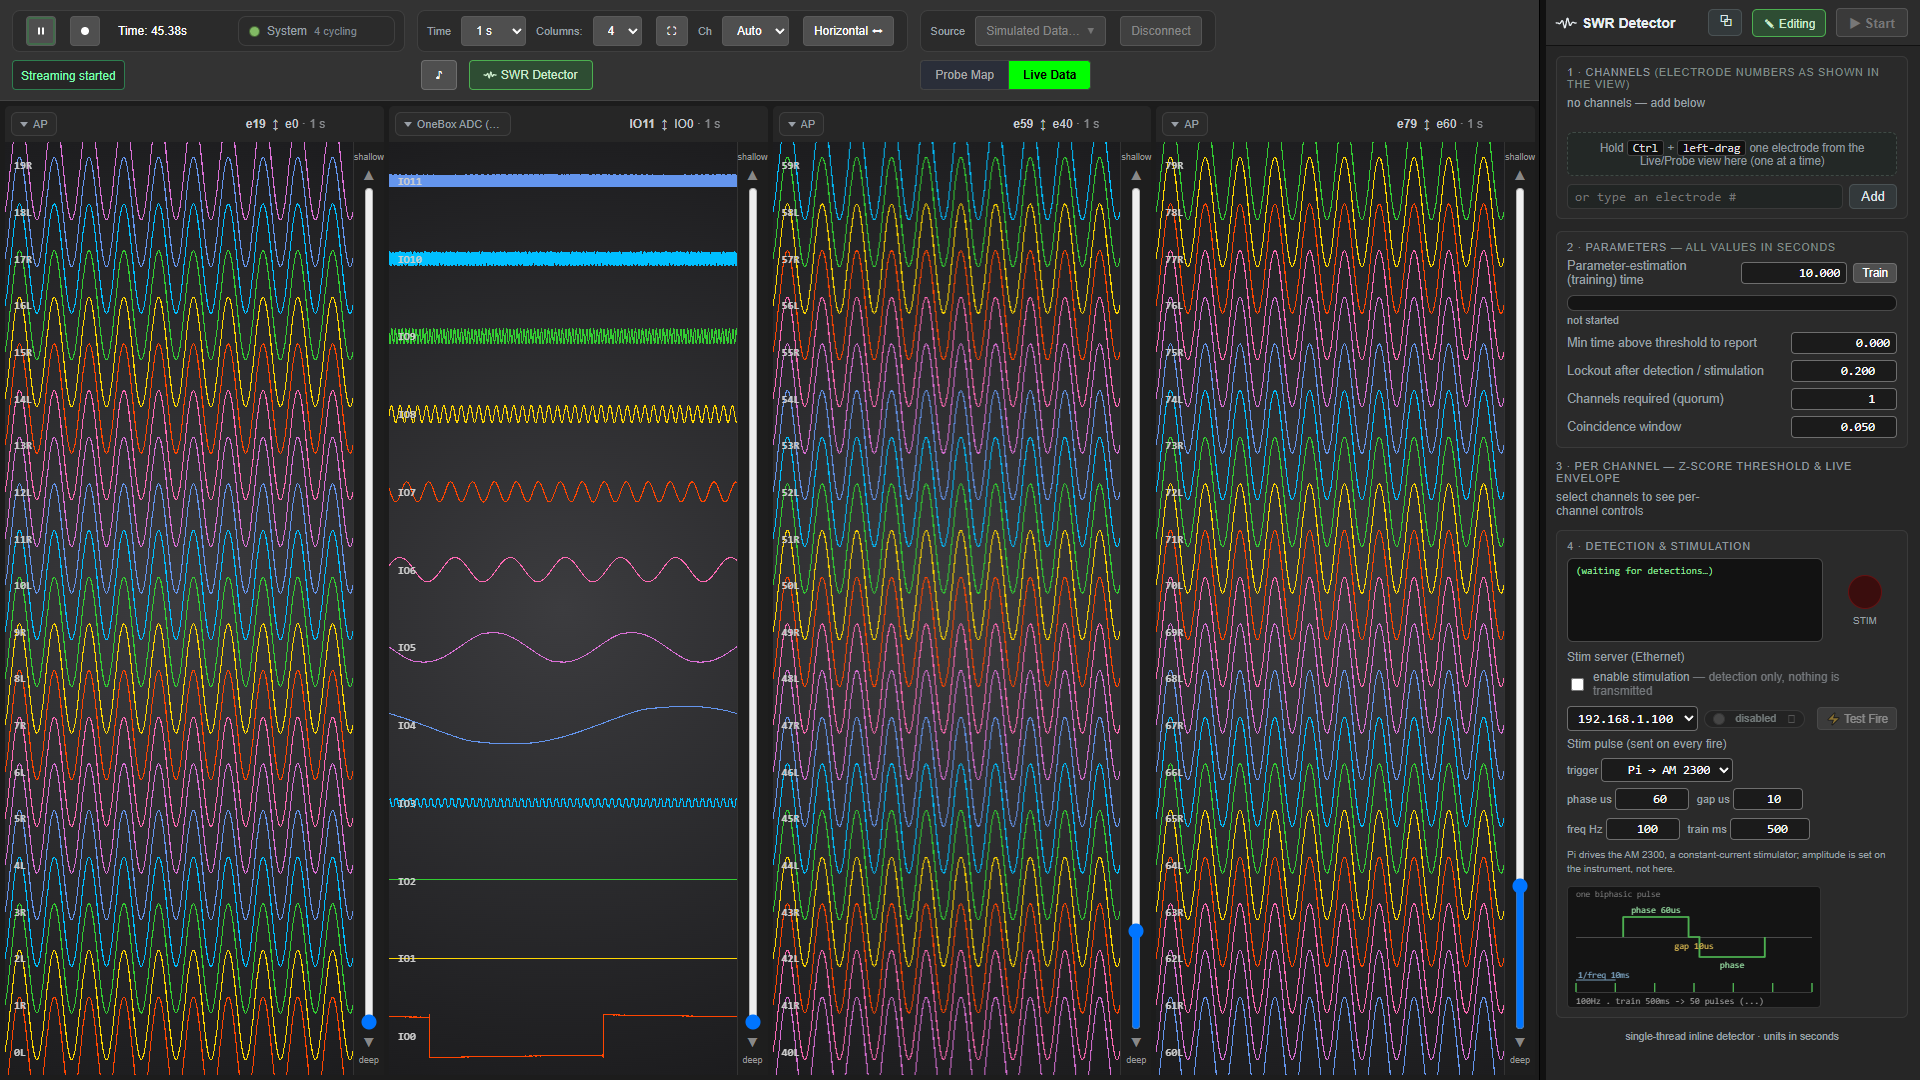
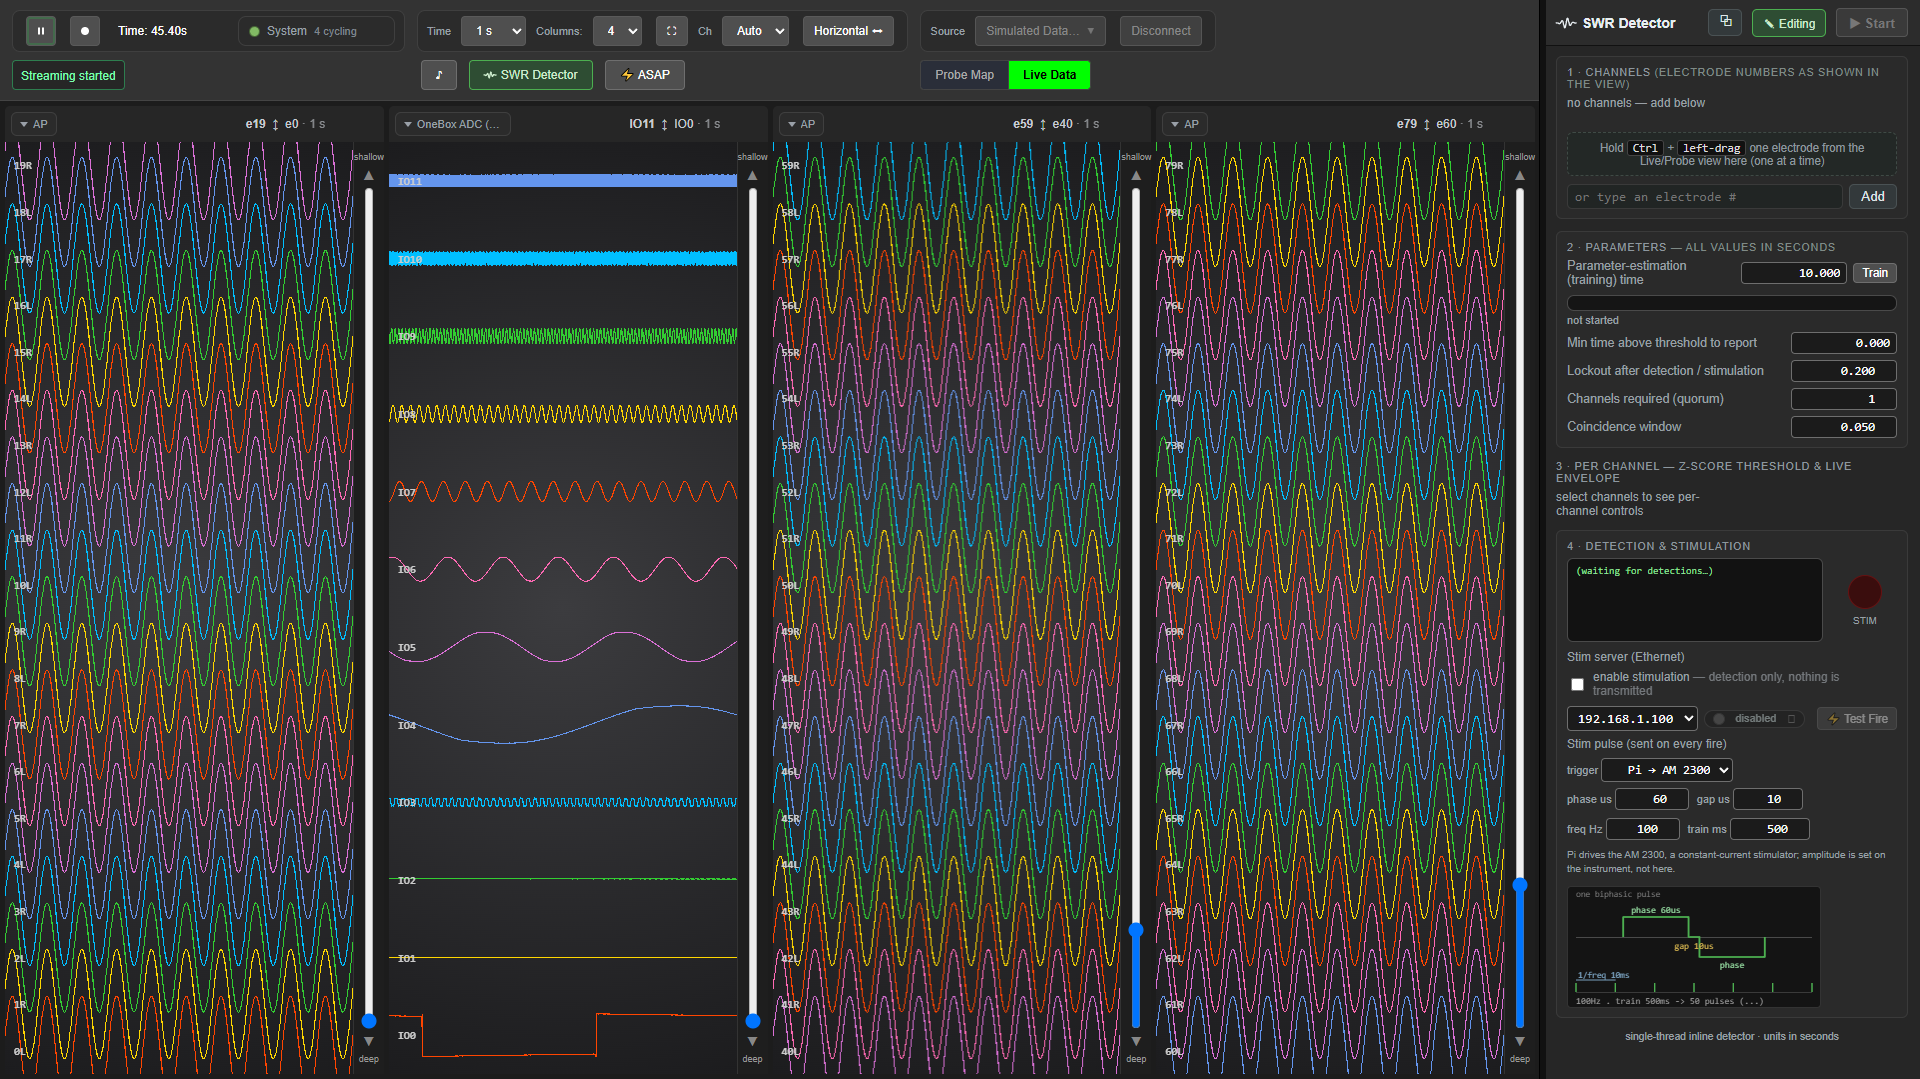
Deploying to master from @ NeuralAscension/SpikesPeak@757a5a29c0e43d517e580e5de89b071a0a0dde8f 🚀

diff --git a/spikespeak/feature/AsapPerModule/SpikesPeak_Status.html b/spikespeak/feature/AsapPerModule/SpikesPeak_Status.html
@@ -7259,7 +7259,161 @@ things by looking at the same broken picture.</p>
   "<code>make_architecture --check</code> failed". The main <code>spikespeak</code> skill now points at it.</li>
 </ul>
 <p>The skill leads with the trap, because it is the one that cost this session: <strong>a node with no edges
-is usually the diagram being blind, not the system being disconnected.</strong></p></article>
+is usually the diagram being blind, not the system being disconnected.</strong></p>
+<hr />
+<h2 id="77-asap-becomes-a-capability-not-a-second-copy-of-the-profile-2026-09-01-80">77. ASAP BECOMES A CAPABILITY, NOT A SECOND COPY OF THE PROFILE  (2026-09-01, #80)<a class="headerlink" href="#77-asap-becomes-a-capability-not-a-second-copy-of-the-profile-2026-09-01-80" title="Permanent link">#</a></h2>
+<p>Operator: <em>"Go ahead and get the ASAP mode selectable in the GUI … if one module needs it, like the
+Ripple Detector, then modules it's receiving data from upstream also need it."</em> On a separate branch
+(<code>feature/AsapPerModule</code>) with its own PR, per their instruction.</p>
+<h3 id="77a-why-a-config-key-was-the-wrong-shape">77a. Why a config key was the wrong shape<a class="headerlink" href="#77a-why-a-config-key-was-the-wrong-shape" title="Permanent link">#</a></h3>
+<p><code>low_latency</code> was readable only from YAML, at connect, with <strong>no GUI control anywhere</strong>. So the only
+way to run a closed loop at low latency was to select a <em>different profile</em> — which is why five files
+exist whose entire content is one flipped boolean, and why the matrix is <strong>incomplete by
+construction</strong>: 11 hardware profiles present, <strong>9 combinations missing</strong>. Encoding orthogonal flags
+as filenames costs 2^n files, so it can never be finished.</p>
+<h3 id="77b-three-measurements-that-shaped-the-design">77b. Three measurements that shaped the design<a class="headerlink" href="#77b-three-measurements-that-shaped-the-design" title="Permanent link">#</a></h3>
+<p><strong>ASAP changes exactly one thing.</strong> <code>mTimer-&gt;setInterval(mLowLatency ? 0 : 1)</code> and nothing else.
+Nothing is allocated or sized by it, and the worker runs at <code>QThread::HighPriority</code> in <strong>both</strong> modes
+— it is a high-priority spin, not a priority change. Cost: <strong>~98 % of one core against 13.4 %</strong>.</p>
+<p><strong>The flag is main-thread-only and read once</strong>, in <code>startAcq</code>, and the probe worker is created fresh
+on every Play. So a plain setter gives pause → toggle → play with no synchronisation, no worker and no
+vendor call touched. That is why the GUI control <strong>locks while acquiring</strong> rather than pretending to
+apply live.</p>
+<p><strong>The processors are already ASAP</strong>, and this is the finding that made propagation honest rather than
+theatrical. <code>BandFilterProcessor</code> and <code>RippleDetector</code> both drive off
+<code>waitForAvailable(consumerId, 1, available)</code> — whose second argument is a <strong>timeout in milliseconds,
+not a minimum count</strong>. They wake on the first sample and take whatever is there. Block size, and
+therefore latency, is set by the <strong>source's commit cadence</strong> and inherited downstream, exactly as
+LatencyProfiling.md concluded when the source flag removed the ~400 µs detector backlog.</p>
+<p>So: a consumer asks the data <strong>path</strong>; each producer either has a knob and uses it, or reports that
+it is already minimal. Only sources have a knob today. A processor that later batches gets the
+request for free, and the module needing the latency never has to know which ancestor can act.</p>
+<h3 id="77c-nothing-could-walk-the-graph">77c. Nothing could walk the graph<a class="headerlink" href="#77c-nothing-could-walk-the-graph" title="Permanent link">#</a></h3>
+<p><code>IProcessor</code> exposed only configure/start/stop. <code>IDataSource</code> reported no outputs.
+<code>ProcessorManager</code> stores <code>name -&gt; (IProcessor*, QThread*)</code> with <strong>no edges</strong>. Which is precisely why
+the one propagation that already existed — <code>RippleDetector::ensureInputBandEnabled</code> — is a hardcoded
+single hop keyed on the literal <code>"data.lfp"</code>.</p>
+<p>Modules now report their edges. Both new mixins have all-defaulted methods, so every existing module
+compiles untouched and opts in only if it has something to say.</p>
+<h3 id="77d-who-declares-what-which-is-the-part-the-operator-cared-about">77d. Who declares what, which is the part the operator cared about<a class="headerlink" href="#77d-who-declares-what-which-is-the-part-the-operator-cared-about" title="Permanent link">#</a></h3>
+<table>
+<thead>
+<tr>
+<th>module</th>
+<th>declares</th>
+<th>why</th>
+</tr>
+</thead>
+<tbody>
+<tr>
+<td><code>source.npx.*</code>, both sims</td>
+<td>supports + <strong>exposes</strong></td>
+<td>the only real knob; on a rig, "how stale is the sample I am reacting to" is an operator question</td>
+</tr>
+<tr>
+<td><code>proc.lfp</code></td>
+<td><strong>edges only</strong></td>
+<td>already ASAP; walked <em>through</em> to reach the source, and deliberately given <strong>no</strong> control — it is in the path because the detector needs it, not because anyone should be tuning it</td>
+</tr>
+<tr>
+<td><code>proc.rippledetector</code></td>
+<td><strong>exposes</strong>, not supports</td>
+<td>nothing of its own to tune, but it is where the operator decides</td>
+</tr>
+</tbody>
+</table>
+<p><code>exposesLowLatency()</code> being separate from <code>supportsLowLatency()</code> is the whole mechanism for "present
+in the GUI at the discretion of that module's developer".</p>
+<h3 id="77e-ownership-and-a-test-expectation-of-mine-that-was-wrong">77e. Ownership, and a test expectation of mine that was wrong<a class="headerlink" href="#77e-ownership-and-a-test-expectation-of-mine-that-was-wrong" title="Permanent link">#</a></h3>
+<p>Release gives back <strong>only what the request took</strong>. The end-to-end check failed at first on
+"the source turned off" — and the code was right, the assertion was wrong:
+<code>SimNpx2RippleModule.yaml</code> sets <code>low_latency: true</code>, so the source was <em>already</em> in ASAP before
+anything was asked (<code>pending=True</code> on the very first dump). The request correctly took no ownership,
+and release correctly left the profile's setting alone. Corrected to assert <strong>that</strong>, which is a more
+valuable check than the one originally written — and the inverse of the bug where one ripple run left
+<code>proc.lfp</code> filtering 384 channels for a whole session.</p>
+<h3 id="77f-two-things-found-along-the-way">77f. Two things found along the way<a class="headerlink" href="#77f-two-things-found-along-the-way" title="Permanent link">#</a></h3>
+<p><strong><code>markProvisioned()</code> is called by only two processors</strong> — <code>BandFilterProcessor</code> and
+<code>AudioProcessor</code>. Filtering the graph on <code>isProvisioned()</code> therefore returned an EMPTY graph and made
+the ripple detector invisible. Membership in <code>mProcessorDatas</code> <em>is</em> "in this graph"; <code>isProvisioned</code>
+exists for the registry path, which this does not use.</p>
+<p><strong>The sim sources got the capability too</strong>, deliberately: every GUI test runs against simulated
+sources, so a capability the sim cannot express is one nothing can test without a probe on the bench.</p>
+<h3 id="77g-verified">77g. Verified<a class="headerlink" href="#77g-verified" title="Permanent link">#</a></h3>
+<ul>
+<li><code>tests/test_lowlatencygraph.cpp</code> — the NP2 chain reaches the source <strong>two hops</strong> away through a
+  knobless node; NP1 is one hop shorter through the <strong>same</strong> code; release returns only what it took;
+  a module reporting no edges is safely skipped; a cycle terminates. Proved by reverting the walk to
+  a single hop and watching it go red.</li>
+<li><code>tests/gui/low_latency.py</code> — who is offered a control, propagation, the lock while acquiring, and
+  <strong>confirmed</strong> state (pending → "takes effect on the next Play" → active after a Play).</li>
+<li>A live end-to-end run over the shipped WebSocket command:
+  <code>proc.rippledetector → proc.lfp → source.npx.sim2</code>, request accepted, source picked it up, a
+  module that does not expose it <strong>refused with a reason</strong> rather than silently doing nothing.</li>
+</ul>
+<hr />
+<h2 id="78-the-agreed-queue-2026-09-01-live">78. THE AGREED QUEUE  (2026-09-01, live)<a class="headerlink" href="#78-the-agreed-queue-2026-09-01-live" title="Permanent link">#</a></h2>
+<p>Recorded here as well as in the machine-local agent memory, because that memory does <strong>not</strong> cross
+machines and item 6 happens on a different box.</p>
+<table>
+<thead>
+<tr>
+<th>#</th>
+<th>item</th>
+<th>state</th>
+</tr>
+</thead>
+<tbody>
+<tr>
+<td>1</td>
+<td><strong>#80 ASAP</strong> — gate green, commit + push <code>feature/AsapPerModule</code></td>
+<td>feature complete</td>
+</tr>
+<tr>
+<td>2</td>
+<td><strong>PR for #80 → merge into <code>feature/OneBoxSupport</code>, delete the branch</strong></td>
+<td></td>
+</tr>
+<tr>
+<td>3</td>
+<td><strong><code>"below threshold"</code> label</strong> — → <strong><code>"no detection"</code></strong> (operator decision)</td>
+<td></td>
+</tr>
+<tr>
+<td>4</td>
+<td><strong>The dock renders four defaults it does not own</strong> — new-channel z → <strong>5.0</strong> to match <code>RippleDetector.cpp</code> (operator decision); the other three render nothing until the backend announces</td>
+<td></td>
+</tr>
+<tr>
+<td>5</td>
+<td><strong>Gate speedup</strong> — <code>--jobs 4</code> twice; flip the default if green twice (~10 min/gate). Also make <code>run_gui_tests.py</code> take the same lock as <code>run_all_tests.py</code></td>
+<td></td>
+</tr>
+<tr>
+<td>6</td>
+<td><strong>Linux run</strong> — the operator runs Configuration 1. The last item on #52</td>
+<td></td>
+</tr>
+</tbody>
+</table>
+<p><strong>Order matters.</strong> 3 and 4 both edit <code>webinterface/RippleModule.js</code>, which the #80 branch also
+modified, so they wait until after the merge.</p>
+<p><strong>Two operator decisions already taken — do not re-ask.</strong> The column label becomes <code>"no detection"</code>,
+which states the confirmed backend fact and makes no claim about the signal, so it cannot contradict
+the sparkline drawn directly above it. A newly added channel gets <strong>z = 5.0</strong>, matching the
+detector's own <code>mZScoreThreshold</code>; this makes new channels <em>less</em> sensitive than before, which was
+accepted deliberately.</p>
+<p><strong>Item 5, so it is not re-investigated from scratch.</strong> The parallel path works and measured <strong>1.46×</strong>
+(1255 s against 1827 s), but one test used to hang to the 900 s subprocess timeout and <em>which</em> test
+changed between runs. Port collision is ruled out — <code>ensure_backend</code> fails in ~30 s with a clear
+error rather than hanging. The CDP per-recv and per-call deadlines that would bound this landed in
+the <strong>same commit</strong> as the serial default (<code>472d71b</code>), so git cannot say whether the hang predates
+them. So the cheap move is simply to re-run it twice, which is this file's own stated criterion.</p>
+<p>Also found while answering "can I start the queued tasks while a gate runs": <strong><code>run_gui_tests.py:160</code>
+reuses a backend it did not start</strong> (<code>if jobs == 1 and not backend_up()</code>), probing the default ports.
+The full gate takes a system-wide lock and the GUI runner does not, so a second suite launched beside
+a running gate silently attaches to the gate's backend — two suites driving one backend, which is
+exactly the failure that once looked like a regression. Folded into item 5.</p></article>
     <footer class="pagefoot">Generated from <code>SpikesPeak_Status.md</code> by <code>scripts/build_docs.py</code> &mdash; edit the Markdown and re-run.</footer>
   </main>
   <aside class="toc-col"><div class="toctitle">On this page</div><div class="toc">
@@ -7749,6 +7903,17 @@ is usually the diagram being blind, not the system being disconnected.</strong><
 <li><a href="#76d-the-point-the-operator-actually-made">76d. The point the operator actually made</a></li>
 </ul>
 </li>
+<li><a href="#77-asap-becomes-a-capability-not-a-second-copy-of-the-profile-2026-09-01-80">77. ASAP BECOMES A CAPABILITY, NOT A SECOND COPY OF THE PROFILE (2026-09-01, #80)</a><ul>
+<li><a href="#77a-why-a-config-key-was-the-wrong-shape">77a. Why a config key was the wrong shape</a></li>
+<li><a href="#77b-three-measurements-that-shaped-the-design">77b. Three measurements that shaped the design</a></li>
+<li><a href="#77c-nothing-could-walk-the-graph">77c. Nothing could walk the graph</a></li>
+<li><a href="#77d-who-declares-what-which-is-the-part-the-operator-cared-about">77d. Who declares what, which is the part the operator cared about</a></li>
+<li><a href="#77e-ownership-and-a-test-expectation-of-mine-that-was-wrong">77e. Ownership, and a test expectation of mine that was wrong</a></li>
+<li><a href="#77f-two-things-found-along-the-way">77f. Two things found along the way</a></li>
+<li><a href="#77g-verified">77g. Verified</a></li>
+</ul>
+</li>
+<li><a href="#78-the-agreed-queue-2026-09-01-live">78. THE AGREED QUEUE (2026-09-01, live)</a></li>
 </ul>
 </div>
 </aside>

diff --git a/spikespeak/feature/AsapPerModule/developer_docs/LatencyProfiling.html b/spikespeak/feature/AsapPerModule/developer_docs/LatencyProfiling.html
@@ -433,6 +433,91 @@ the data:</p>
 <p>Operator-facing version, with the "when not to use it" list:
 <a href="../user_docs/RippleDetection.html"><code>user_docs/RippleDetection.md</code> §8</a>.</p>
 <h2 id="the-asap-low-latency-flag">The ASAP / low-latency flag<a class="headerlink" href="#the-asap-low-latency-flag" title="Permanent link">#</a></h2>
+<blockquote>
+<h3 id="since-2026-09-01-this-is-a-capability-not-only-a-config-key-issue-80">Since 2026-09-01 this is a CAPABILITY, not only a config key (issue #80)<a class="headerlink" href="#since-2026-09-01-this-is-a-capability-not-only-a-config-key-issue-80" title="Permanent link">#</a></h3>
+<p>A module declares in C++ whether ASAP means anything for it, an operator can ask for it <strong>from the
+GUI</strong>, and the request <strong>propagates upstream</strong> to everything feeding that module. The YAML key
+below still works and still seeds the initial state — nothing about it changed — but it is no
+longer the only way in, and it is no longer a reason to keep a second copy of a profile.</p>
+<p><strong>Why it had to change.</strong> <code>low_latency</code> was readable only from YAML, at connect, with no GUI
+control anywhere, so the only way to run a closed loop at low latency was to select a <em>different
+profile</em>. That produced five files whose entire content is one flipped boolean —
+<code>Npx1OneBoxAsap</code>, <code>Npx1PxiNiDaqAsap</code>, <code>Npx2OneBoxAsap</code>, <code>Npx2PxiNiDaqAsap</code>,
+<code>SimNpx1LatencyAsap</code> — and a matrix that could never be finished: 11 hardware profiles present, 9
+combinations missing, because encoding orthogonal flags as filenames costs 2^n files.</p>
+<p><strong>The four declarations</strong> (<code>src/core/LowLatency.hpp</code>):</p>
+<table>
+<thead>
+<tr>
+<th></th>
+<th></th>
+</tr>
+</thead>
+<tbody>
+<tr>
+<td><code>supportsLowLatency()</code></td>
+<td>do I have a latency knob at all</td>
+</tr>
+<tr>
+<td><code>exposesLowLatency()</code></td>
+<td>should an operator be offered a control <strong>for me</strong></td>
+</tr>
+<tr>
+<td><code>isLowLatency()</code> / <code>lowLatencyPending()</code></td>
+<td>what is in force, versus what has been asked for</td>
+</tr>
+<tr>
+<td><code>setLowLatency(on, why)</code></td>
+<td>ask</td>
+</tr>
+</tbody>
+</table>
+<p><code>exposes</code> is deliberately separate from <code>supports</code>, and it is <strong>the module developer's call</strong>:</p>
+<table>
+<thead>
+<tr>
+<th>module</th>
+<th>declares</th>
+<th>why</th>
+</tr>
+</thead>
+<tbody>
+<tr>
+<td><code>source.npx.*</code></td>
+<td>supports + exposes</td>
+<td>the only real knob, and on a rig "how stale is the sample I am reacting to" is an operator question</td>
+</tr>
+<tr>
+<td><code>proc.lfp</code></td>
+<td><strong>edges only</strong></td>
+<td>already ASAP; it is walked <em>through</em> to reach the source, and offering a control for it would invite tuning something that has nothing to tune</td>
+</tr>
+<tr>
+<td><code>proc.rippledetector</code></td>
+<td>exposes, not supports</td>
+<td>nothing of its own to tune, but it is where the operator decides — closed-loop latency is the number this rig is judged on</td>
+</tr>
+</tbody>
+</table>
+<p><strong>Propagation is the point.</strong> A consumer at low latency behind a producer that is not gains
+nothing. Asking the ripple detector reaches <code>proc.lfp</code> <strong>and</strong> the source on an NP2.0; on an NP1.0
+the detector reads the native band, so the chain is one hop shorter — through the same walk, not a
+special case. Before this, the only upstream propagation in the tree
+(<code>RippleDetector::ensureInputBandEnabled</code>) was a hardcoded single hop keyed on the literal string
+<code>"data.lfp"</code>, because nothing could walk the graph: <code>IProcessor</code> exposed only
+configure/start/stop, <code>IDataSource</code> reported no outputs, and <code>ProcessorManager</code> stores its nodes
+with <strong>no edges</strong>. Modules now report their edges.</p>
+<p><strong>Release gives back only what the request took.</strong> If the profile or the operator turned ASAP on,
+a detector run ending must not take it away — the inverse of the bug where one ripple run left
+<code>proc.lfp</code> filtering 384 channels for a whole session.</p>
+<p><strong>The control locks while acquiring.</strong> The source reads its flag exactly once, in <code>startAcq</code>, and
+the worker is created fresh on every Play — so a request made mid-run is real and simply not in
+force. The panel says <em>"takes effect on the next Play"</em> rather than showing it as live, because
+announcing requested state instead of confirmed state is this repo's recurring defect
+(#16/#18, #51).</p>
+<p>Tests: <code>tests/test_lowlatencygraph.cpp</code> (the walk and the ownership rule),
+<code>tests/gui/low_latency.py</code> (who is offered a control, propagation, the lock, confirmed state).</p>
+</blockquote>
 <p><code>low_latency: true</code> on a <strong>source</strong> node makes it deliver in the smallest blocks the clock allows, trading
 CPU for freshness. It is <strong>per-source</strong>; the ripple / closed-loop configs now ship with it <strong>on by default</strong>
 and plain-streaming configs leave it off, so only loop-closing configs pay for it:</p>
@@ -896,6 +981,7 @@ python ripple_tools/analyze_recording.py &lt;recdir&gt; --ws &lt;recdir&gt;/&lt;
 </ul>
 </li>
 <li><a href="#the-asap-low-latency-flag">The ASAP / low-latency flag</a><ul>
+<li><a href="#since-2026-09-01-this-is-a-capability-not-only-a-config-key-issue-80">Since 2026-09-01 this is a CAPABILITY, not only a config key (issue #80)</a></li>
 <li><a href="#measured-effect-ab-n1000-each-live-pi-simulation">Measured effect (A/B, n=1000 each, live Pi, simulation)</a></li>
 <li><a href="#cpu-cost-of-asap-the-busy-spin-measured-2026-07-22">CPU cost of ASAP — the busy-spin (measured 2026-07-22)</a></li>
 <li><a href="#on-real-hardware-implemented-2026-07-21">On real hardware — implemented 2026-07-21</a></li>
